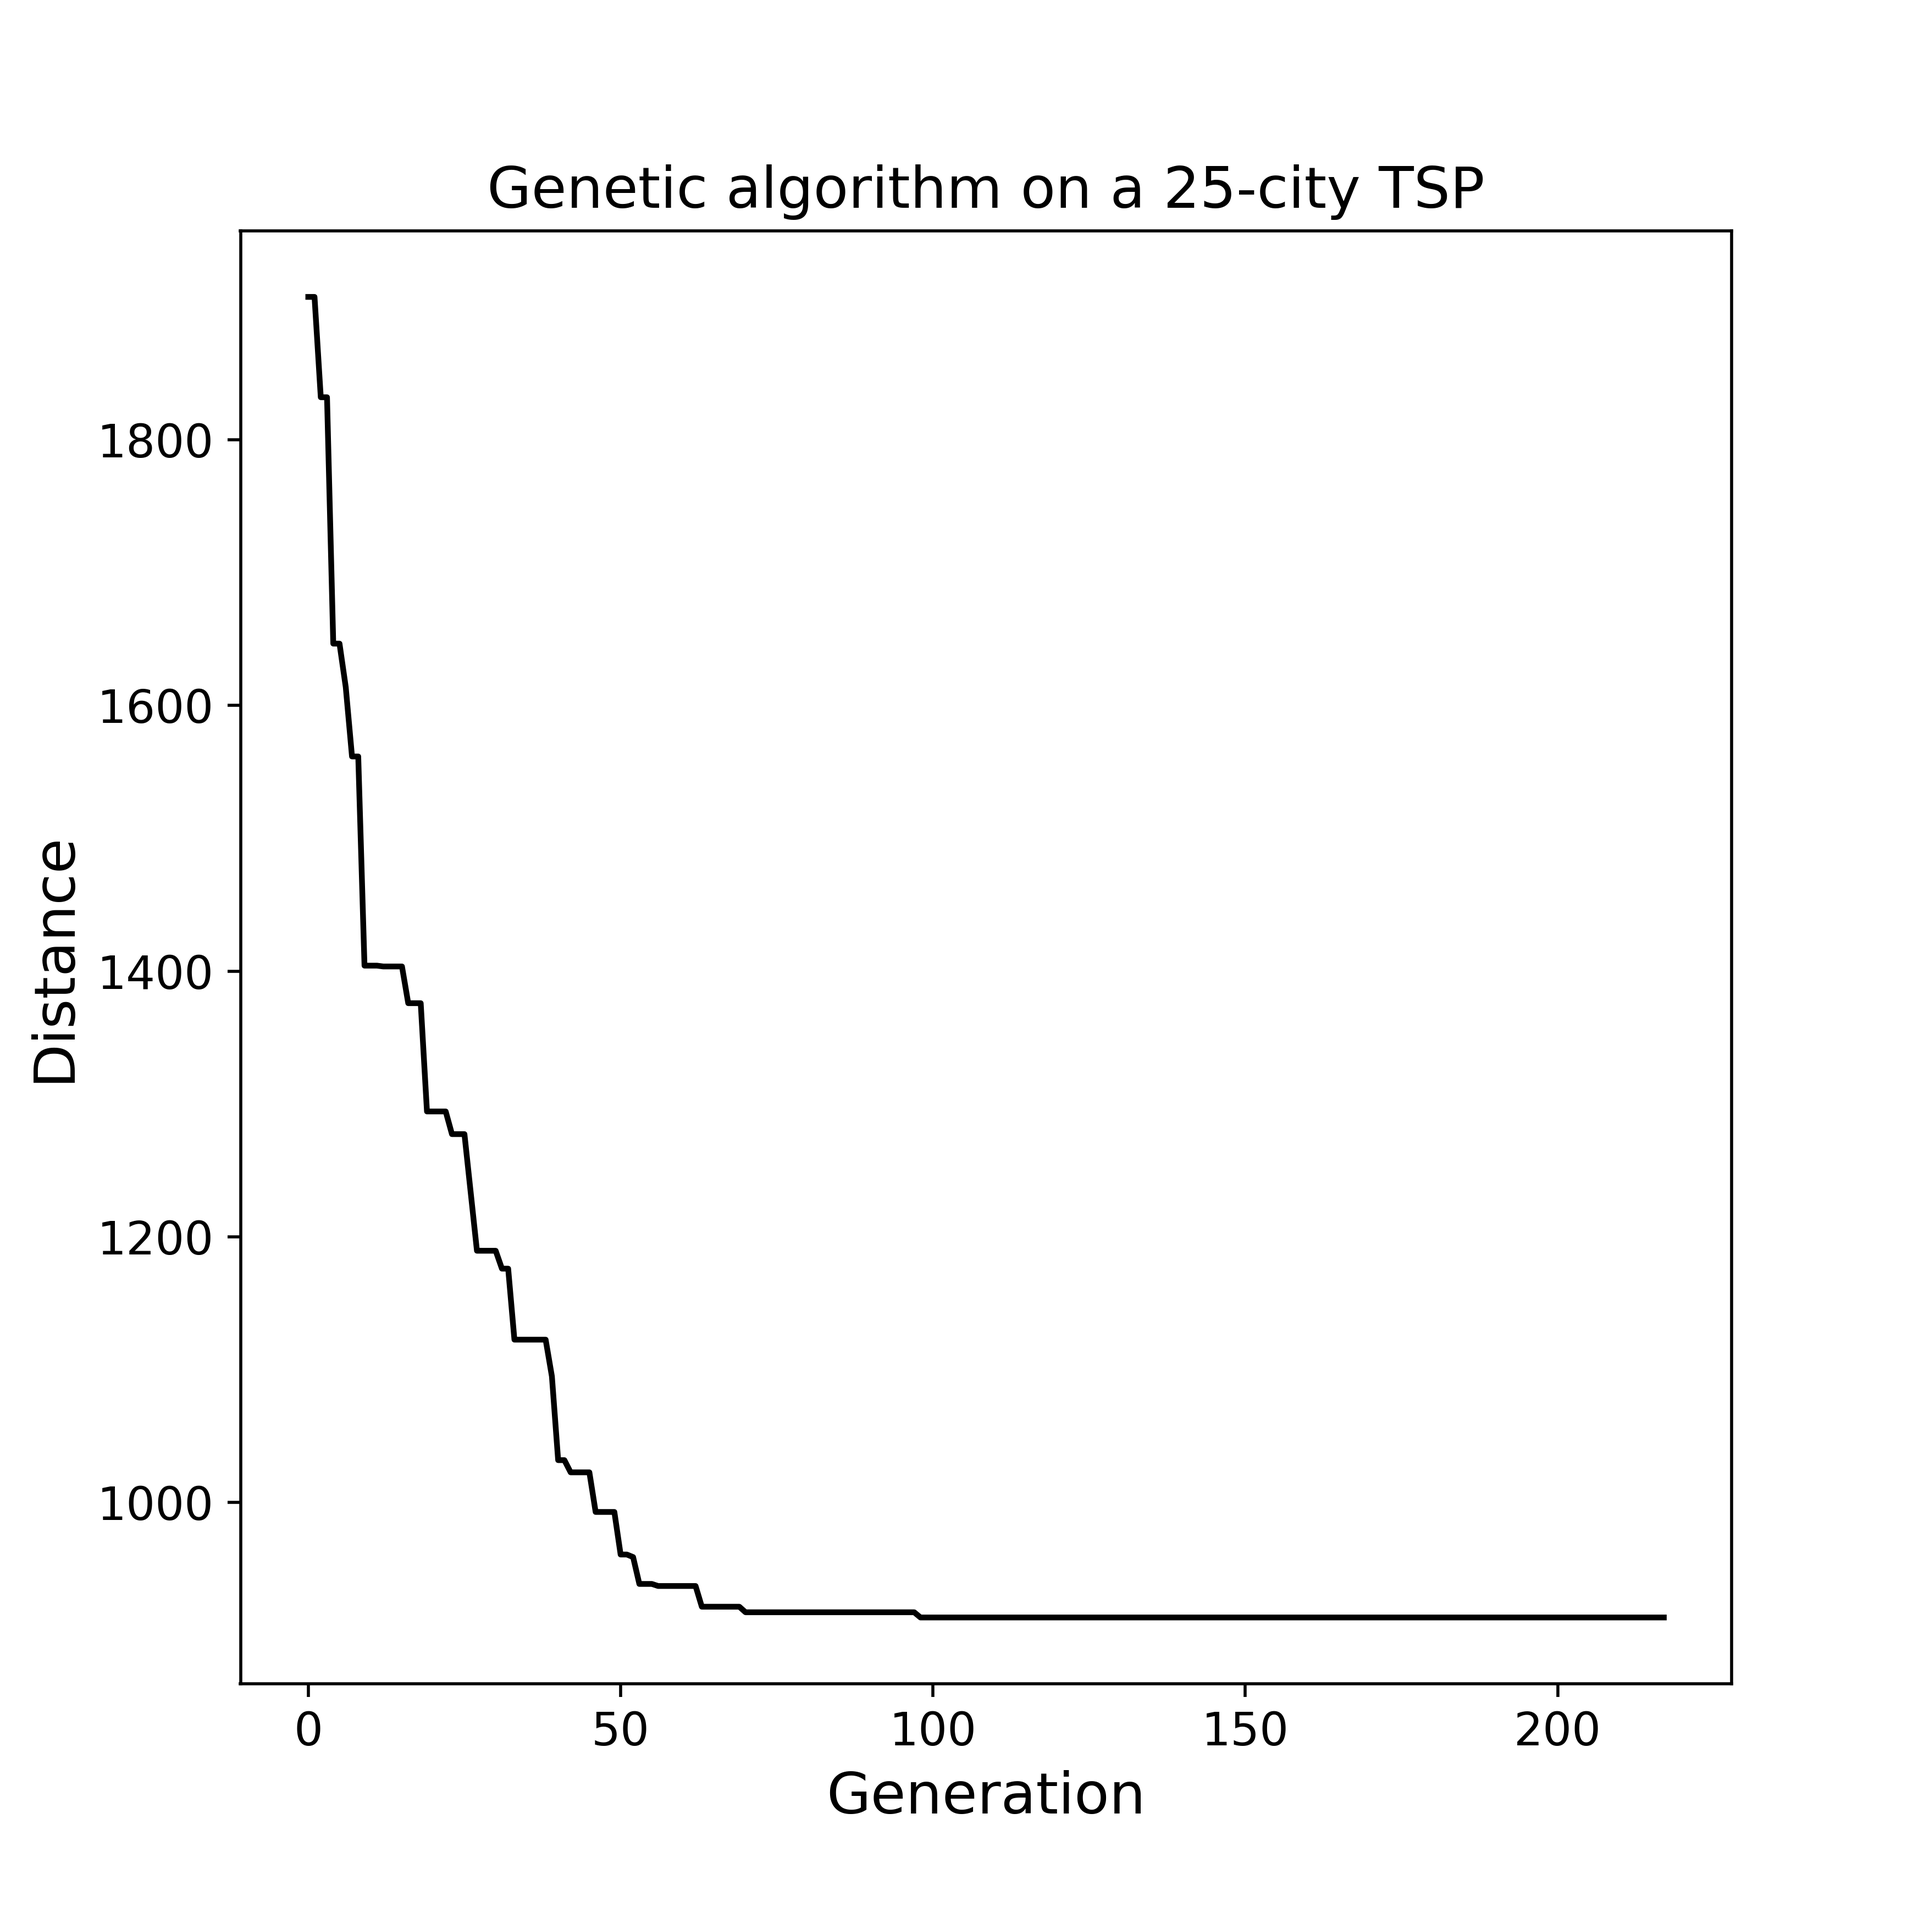
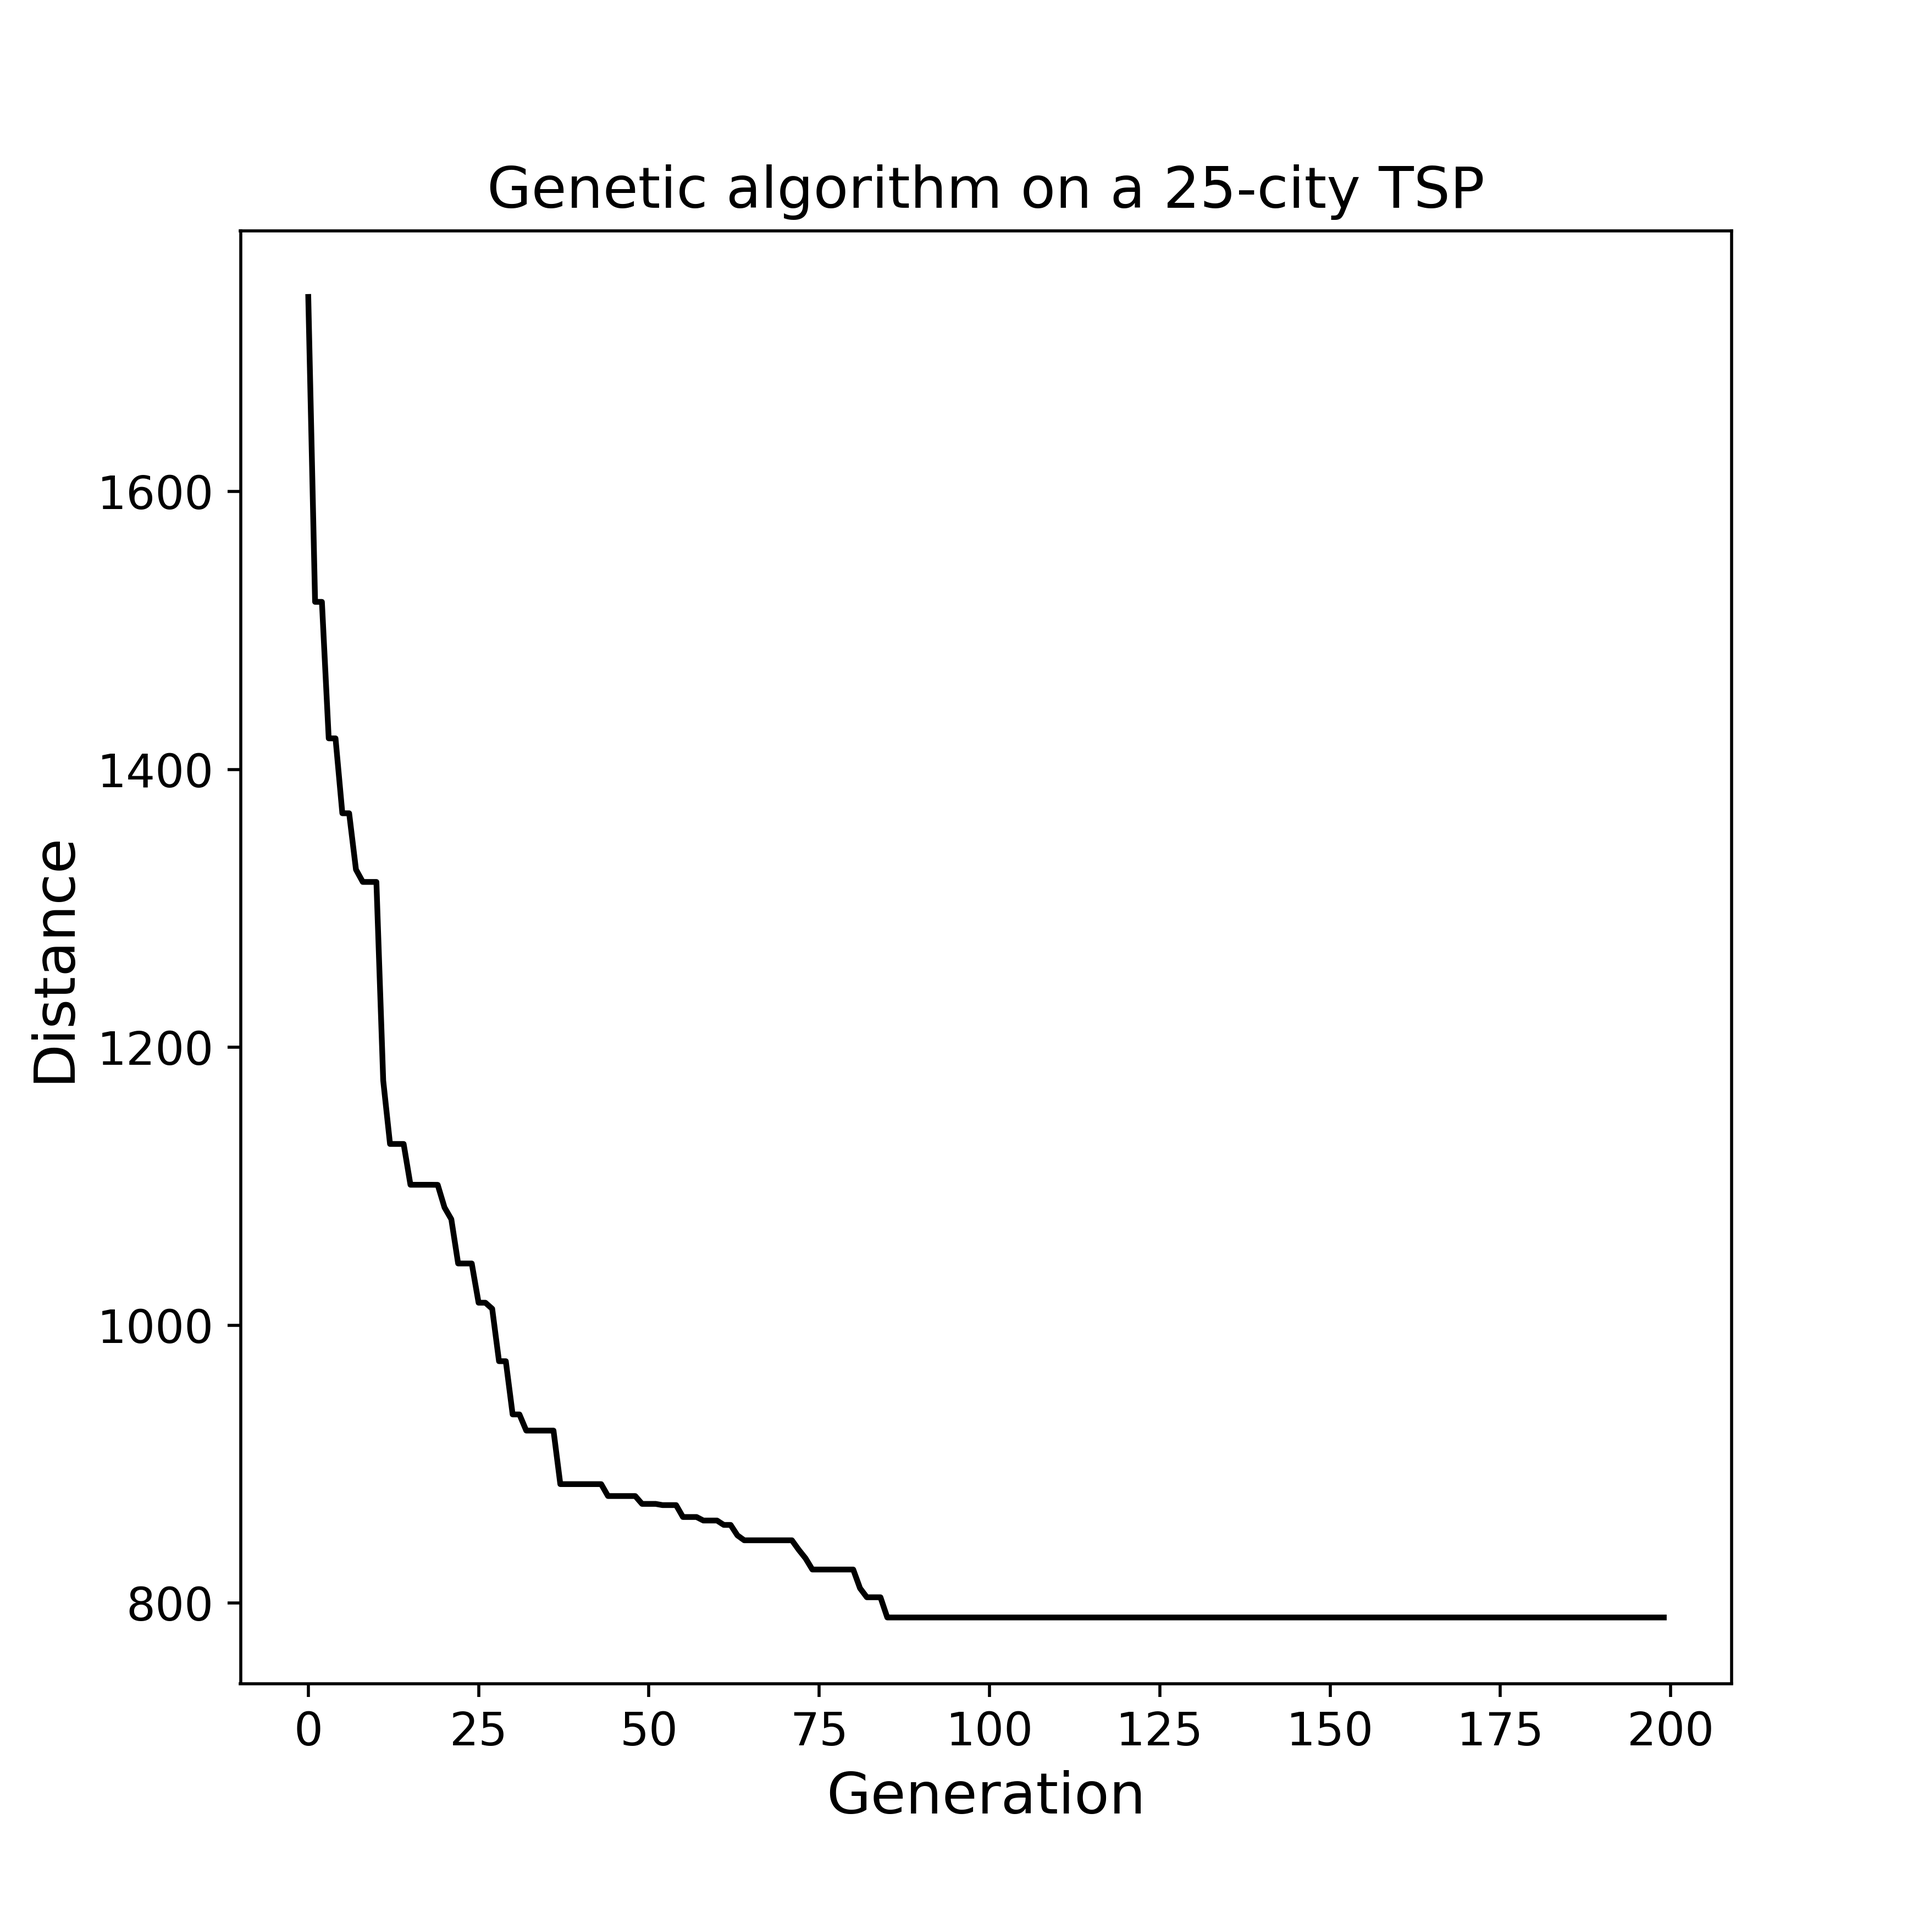
no more mutations; added 100 cities

diff --git a/genetic_tsp.py b/genetic_tsp.py
@@ -1,6 +1,7 @@
-import numpy as np
-import random
 import matplotlib.pyplot as plt
+import numpy as np
+import os
+import random
 
 
 class City:
@@ -45,18 +46,13 @@ class Route:
                 child_cities.append(city)
 
         return Route(child_cities)
-
-    def mutate(self, mutation_rate):
-        for i, _ in enumerate(self.cities):
-            if random.random() < mutation_rate:
-                j = random.randint(0, len(self.cities) - 1)
-                self.cities[i], self.cities[j] = self.cities[j], self.cities[i]
     
     def plot(self, save=None):
         fig, ax = plt.subplots(figsize=(5, 5))
         xx = [city.x for city in self.cities] + [self.cities[0].x]
         yy = [city.y for city in self.cities] + [self.cities[0].y]
-        ax.plot(xx, yy)
+        ax.plot(xx, yy, c='k')
+        ax.scatter(xx, yy, c='r')
         plt.axis('off')
         if save:
             plt.savefig(save, dpi=500)
@@ -77,35 +73,43 @@ class Population:
     def best_route(self):
         return self.routes[0]
 
-    def propagate(self, elite_size, mutation_rate):
+    def propagate(self, elite_size):
         elite = self.routes[:elite_size]
         self.routes = elite
         while len(self.routes) < self.size:
             parent1, parent2 = random.sample(elite, 2)
             self.routes.append(parent1.mate_with(parent2))
-        for route in self.routes:
-            route.mutate(mutation_rate)
         self.routes = sorted(self.routes, key=lambda r: r.fitness, reverse=True)
 
 
-if __name__ == "__main__":
-    cities = list()
-    for _ in range(50):
-        cities.append(City(x=random.randint(0, 200), y=random.randint(0, 200)))
+def run_algorithm(n_cities, n_generations, snap_freq):
+    if not os.path.exists(f"snapshots_{n_cities}cities"):
+        os.mkdir(f"snapshots_{n_cities}cities")
 
+    cities = list()
+    for _ in range(n_cities):
+        cities.append(City(x=random.randint(0, 200), y=random.randint(0, 200)))
+    
     popul = Population(cities, size=1000)
     best_distance = list()
-    for i in range(500):
-        popul.propagate(elite_size=400, mutation_rate=0.001)
+    for i in range(n_generations):
+        popul.propagate(elite_size=300)
         best_route = popul.best_route()
         print(best_route.distance)
         best_distance.append(best_route.distance)
-#         best_route.plot(save=f"snapshots/generation_{i}.png")
-
-#     fix, ax = plt.subplots(figsize=(7, 7))
-#     ax.plot(range(len(best_distance)), best_distance, c='k')
-#     plt.xlabel("Generation", fontsize=15)
-#     plt.ylabel("Distance", fontsize=15)
-#     ax.tick_params(axis="both", labelsize=12)
-#     plt.title("Genetic algorithm on a 50-city TSP", fontsize=15)
-#     plt.savefig("50_distance_generation.png", dpi=500)
+        if i % snap_freq == 0:
+            best_route.plot(save=f"snapshots_{n_cities}cities/generation_{i}.png")
+    
+    fix, ax = plt.subplots(figsize=(7, 7))
+    ax.plot(range(len(best_distance)), best_distance, c='k')
+    plt.xlabel("Generation", fontsize=15)
+    plt.ylabel("Distance", fontsize=15)
+    ax.tick_params(axis="both", labelsize=12)
+    plt.title(f"Genetic algorithm on a {n_cities}-city TSP", fontsize=15)
+    plt.savefig(f"{n_cities}_distance_generation.png", dpi=500)
+    
+    
+if __name__ == "__main__":
+    run_algorithm(25, 200, 1)
+    run_algorithm(50, 400, 10)
+    run_algorithm(100, 2500, 10)

diff --git a/README.md b/README.md
@@ -4,7 +4,8 @@
 
 * A simple genetic algorithm for the [Travelling salesman problem](https://en.wikipedia.org/wiki/Travelling_salesman_problem). 
 * < 100 lines of code
-* Achieves reasonable performance for 25 and 50 cities, although gets stuck in local minima (travel loops) with increasing complexity
+* Achieves reasonable performance for 25, 50, 100 cities
+* Optimal solution isn't guaranteed as the algorithm can get stuck in local minima / be slow to converge, but empirically was found to work well
 
 ### 25 cities
 
@@ -12,12 +13,20 @@
 ![](resources/25_distance_generation.png)
 
 * Snapshot of each generation (with freeze on finish)
-![](resources/25-city-route.gif)
+![](resources/25-cities-evolution.gif)
 
 ### 50 cities
 
-* Convergence is reasonable
+* Convergence is fast
 ![](resources/50_distance_generation.png)
 
 * Snapshot of every 10th generation (with freeze on finish)
-![](resources/50-city-route.gif)
+![](resources/50-cities-evolution.gif)
+
+### 100 cities
+
+* Convergence is reasonable
+![](resources/100_distance_generation.png)
+
+* Snapshot of every 10th generation (with freeze on finish)
+![](resources/100-cities-evolution.gif)
